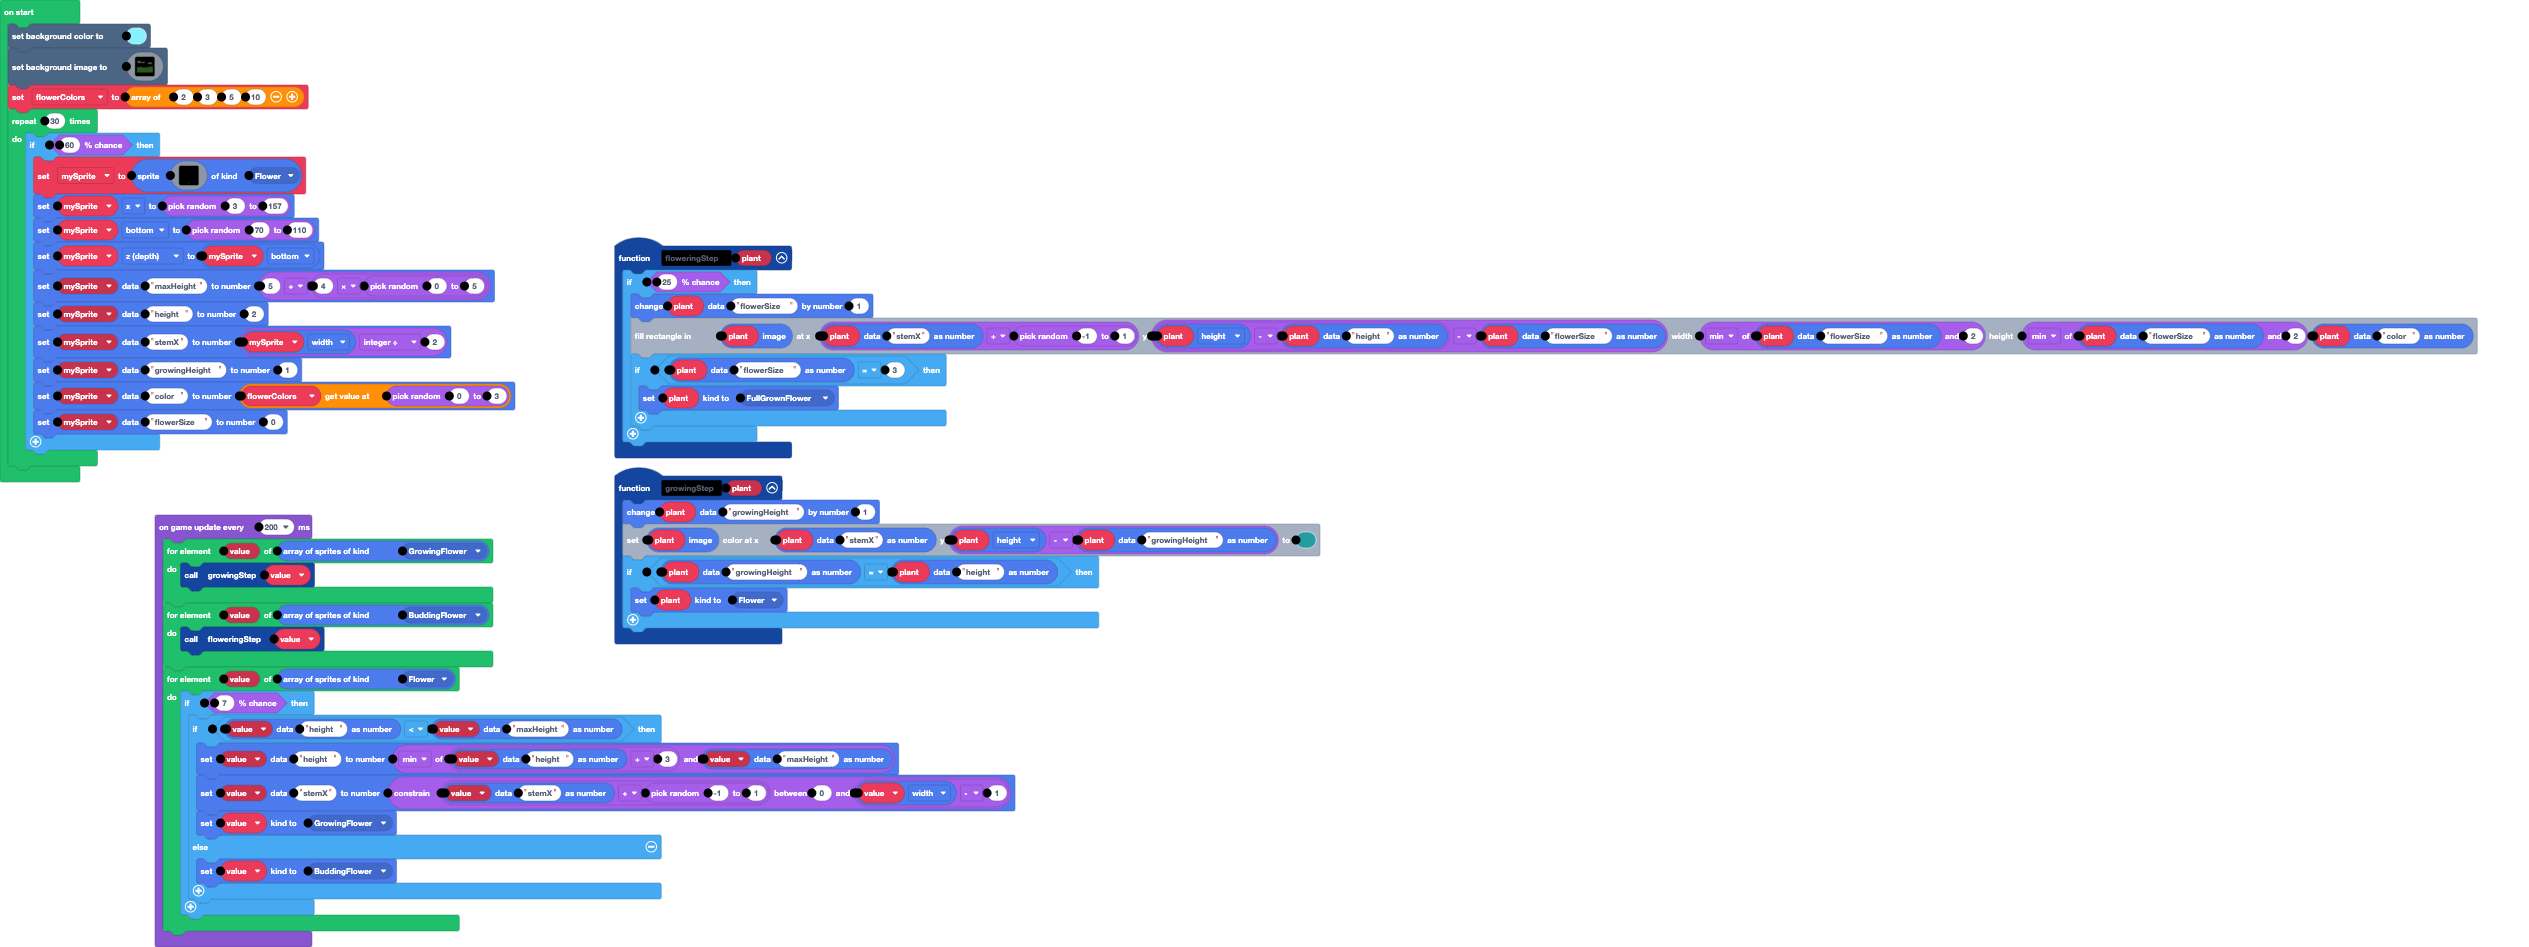
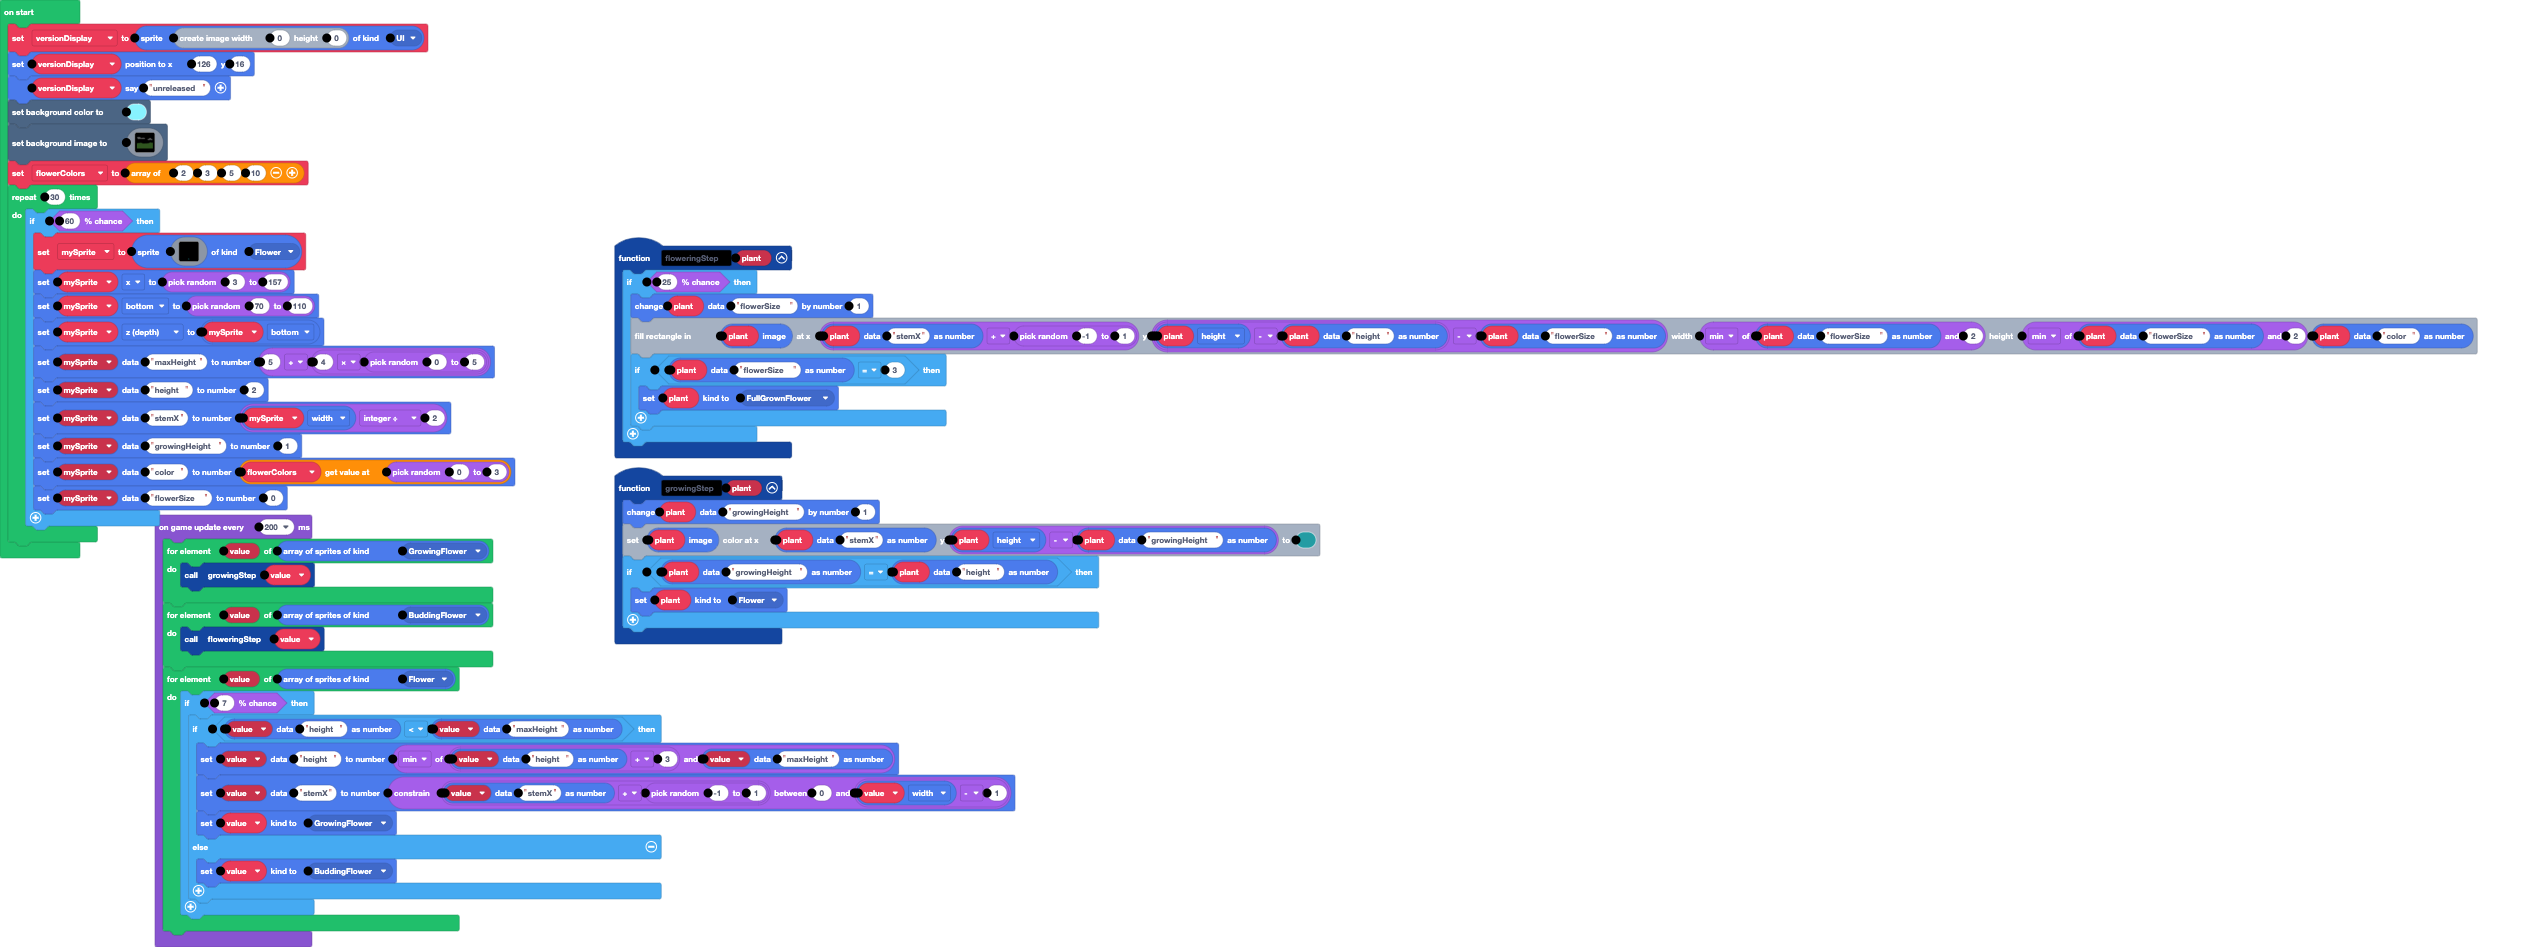
Add "unreleased" message to test if gh-pages updates.

Changed region(s): [[0.0, 0.0, 0.2187, 0.6125]]

diff --git a/main.ts b/main.ts
@@ -3,6 +3,7 @@ namespace SpriteKind {
     export const FullGrownFlower = SpriteKind.create()
     export const GrowingFlower = SpriteKind.create()
     export const BuddingFlower = SpriteKind.create()
+    export const UI = SpriteKind.create()
 }
 namespace myTiles {
     //% blockIdentity=images._tile
@@ -61,6 +62,9 @@ function growingStep (plant: Sprite) {
     }
 }
 let mySprite: Sprite = null
+let versionDisplay = sprites.create(image.create(0, 0), SpriteKind.UI)
+versionDisplay.setPosition(126, 16)
+versionDisplay.say("unreleased")
 scene.setBackgroundColor(9)
 scene.setBackgroundImage(img`
 . . . . . . . . . . . . . . . . . . . . . . . . . . . . . . . . . . . . . . . . . . . . . . . . . . . . . . . . . . . . . . . . . . . . . . . . . . . . . . . . . . . . . . . . . . . . . . . . . . . . . . . . . . . . . . . . . . . . . . . . . . . . . . . . . . . . . . . . . . . . . . . . . . . . . . . . . . . . . . . . 
